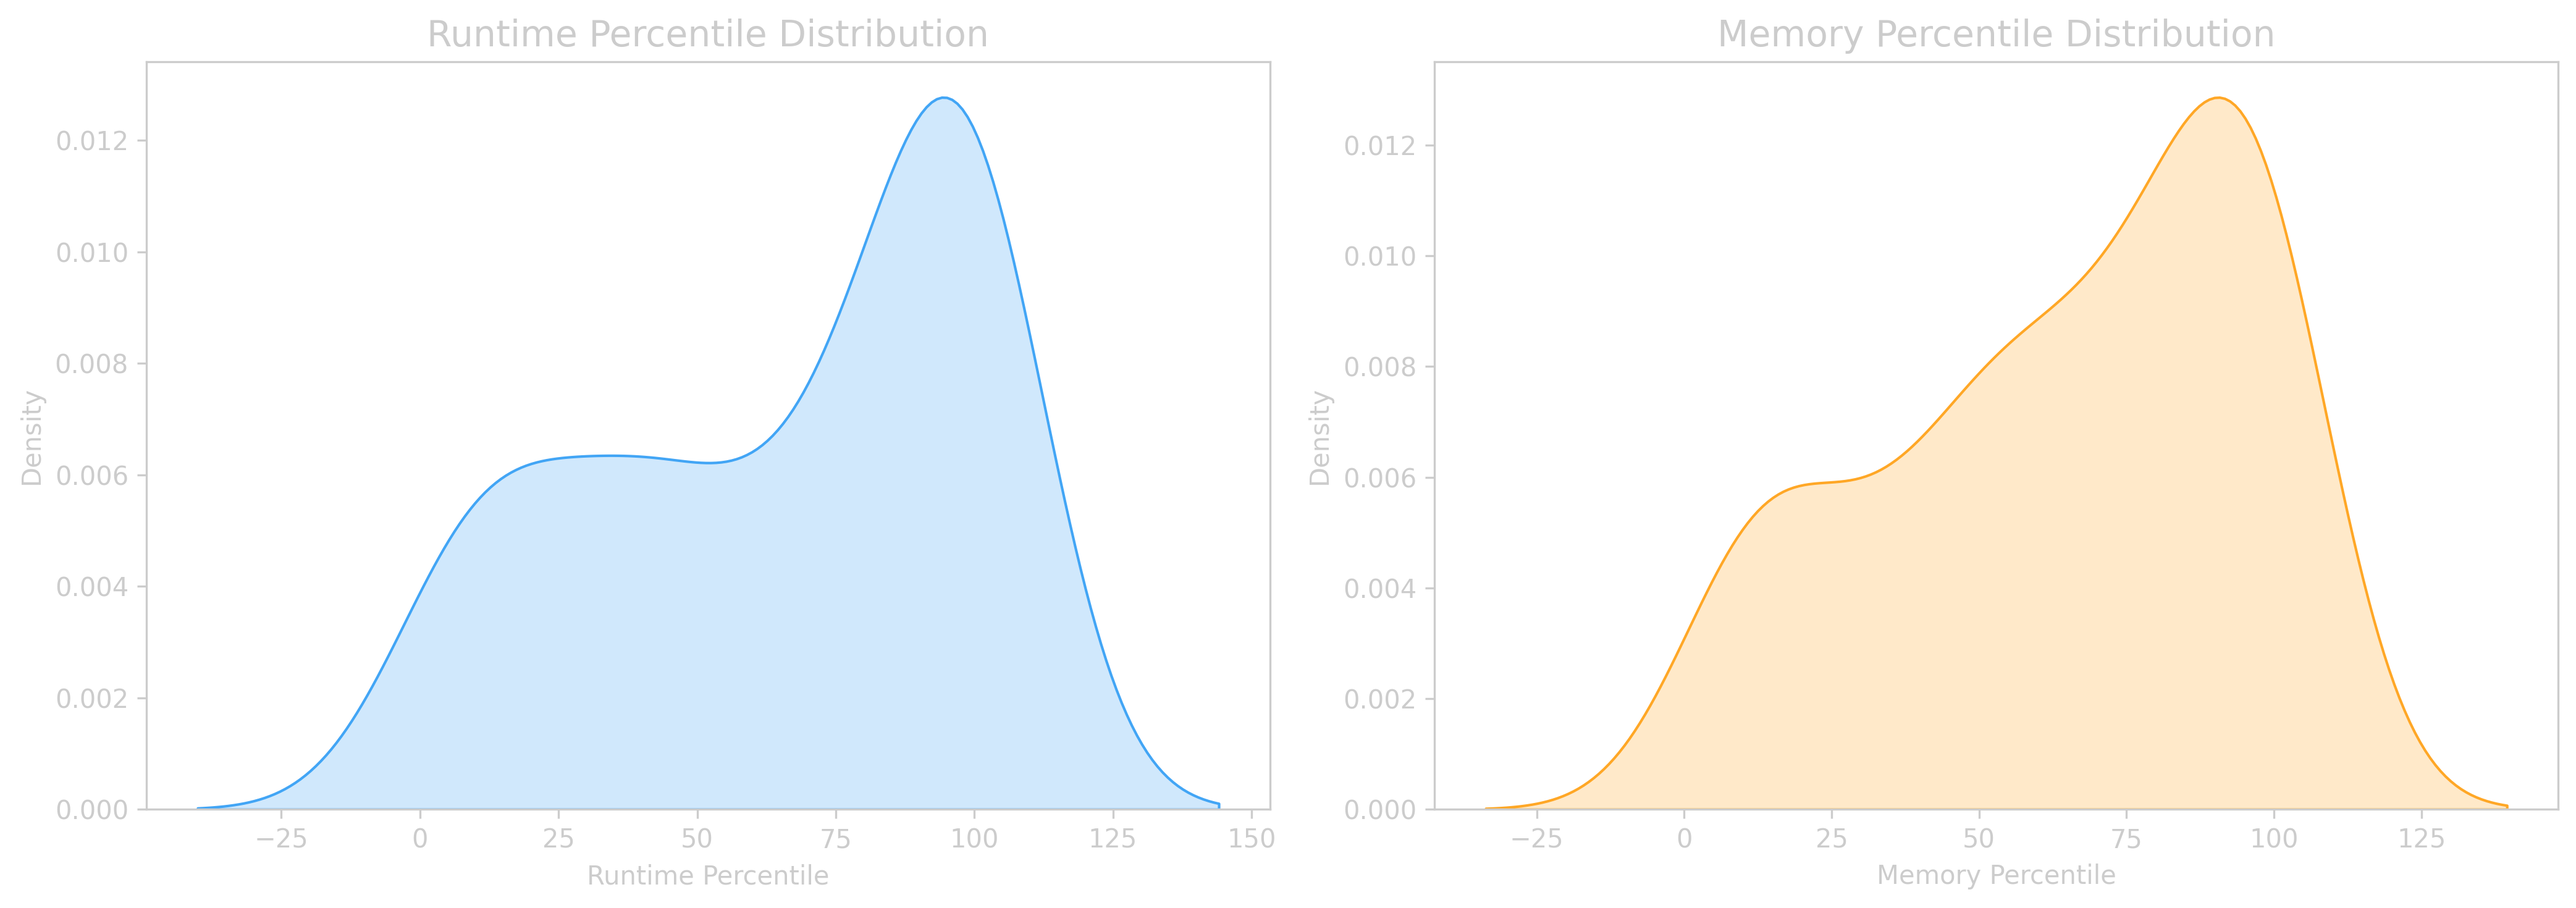
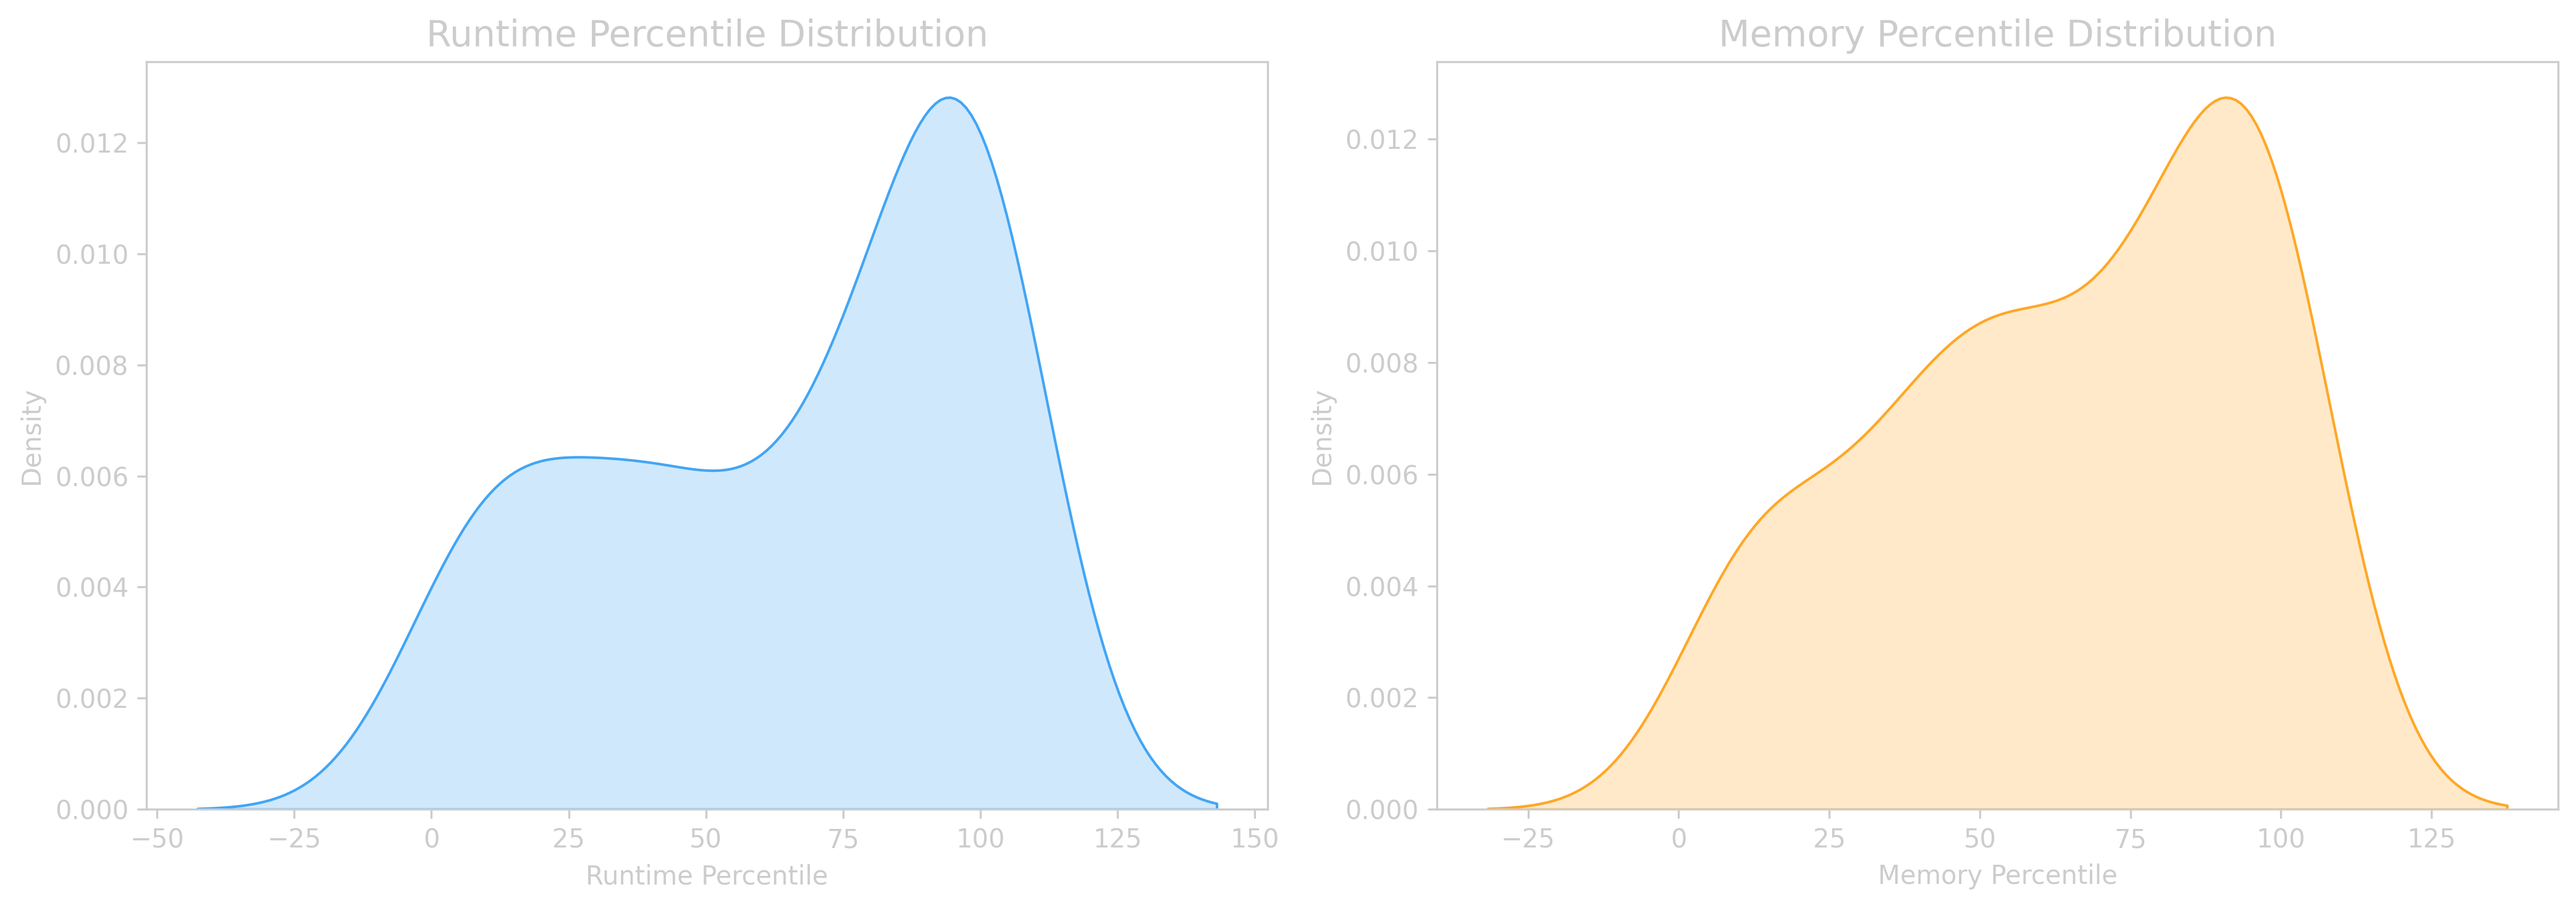
Update stats and visuals

diff --git a/README.md b/README.md
@@ -42,13 +42,13 @@
 - **Memory:** `65.60MB` (Top 66.95%)
 
 ## Language Statistics
-- **PY**: 69 files
+- **PY**: 79 files
 - **JAVA**: 22 files
 - **SQL**: 20 files
 
 ## Overall Performance
-- **Average Runtime:** 220.61ms
-- **Average Memory:** 29.69MB
+- **Average Runtime:** 195.03ms
+- **Average Memory:** 28.72MB
 
 ## Visualizations
 ![Language Distribution](images/lang_distribution.png)
